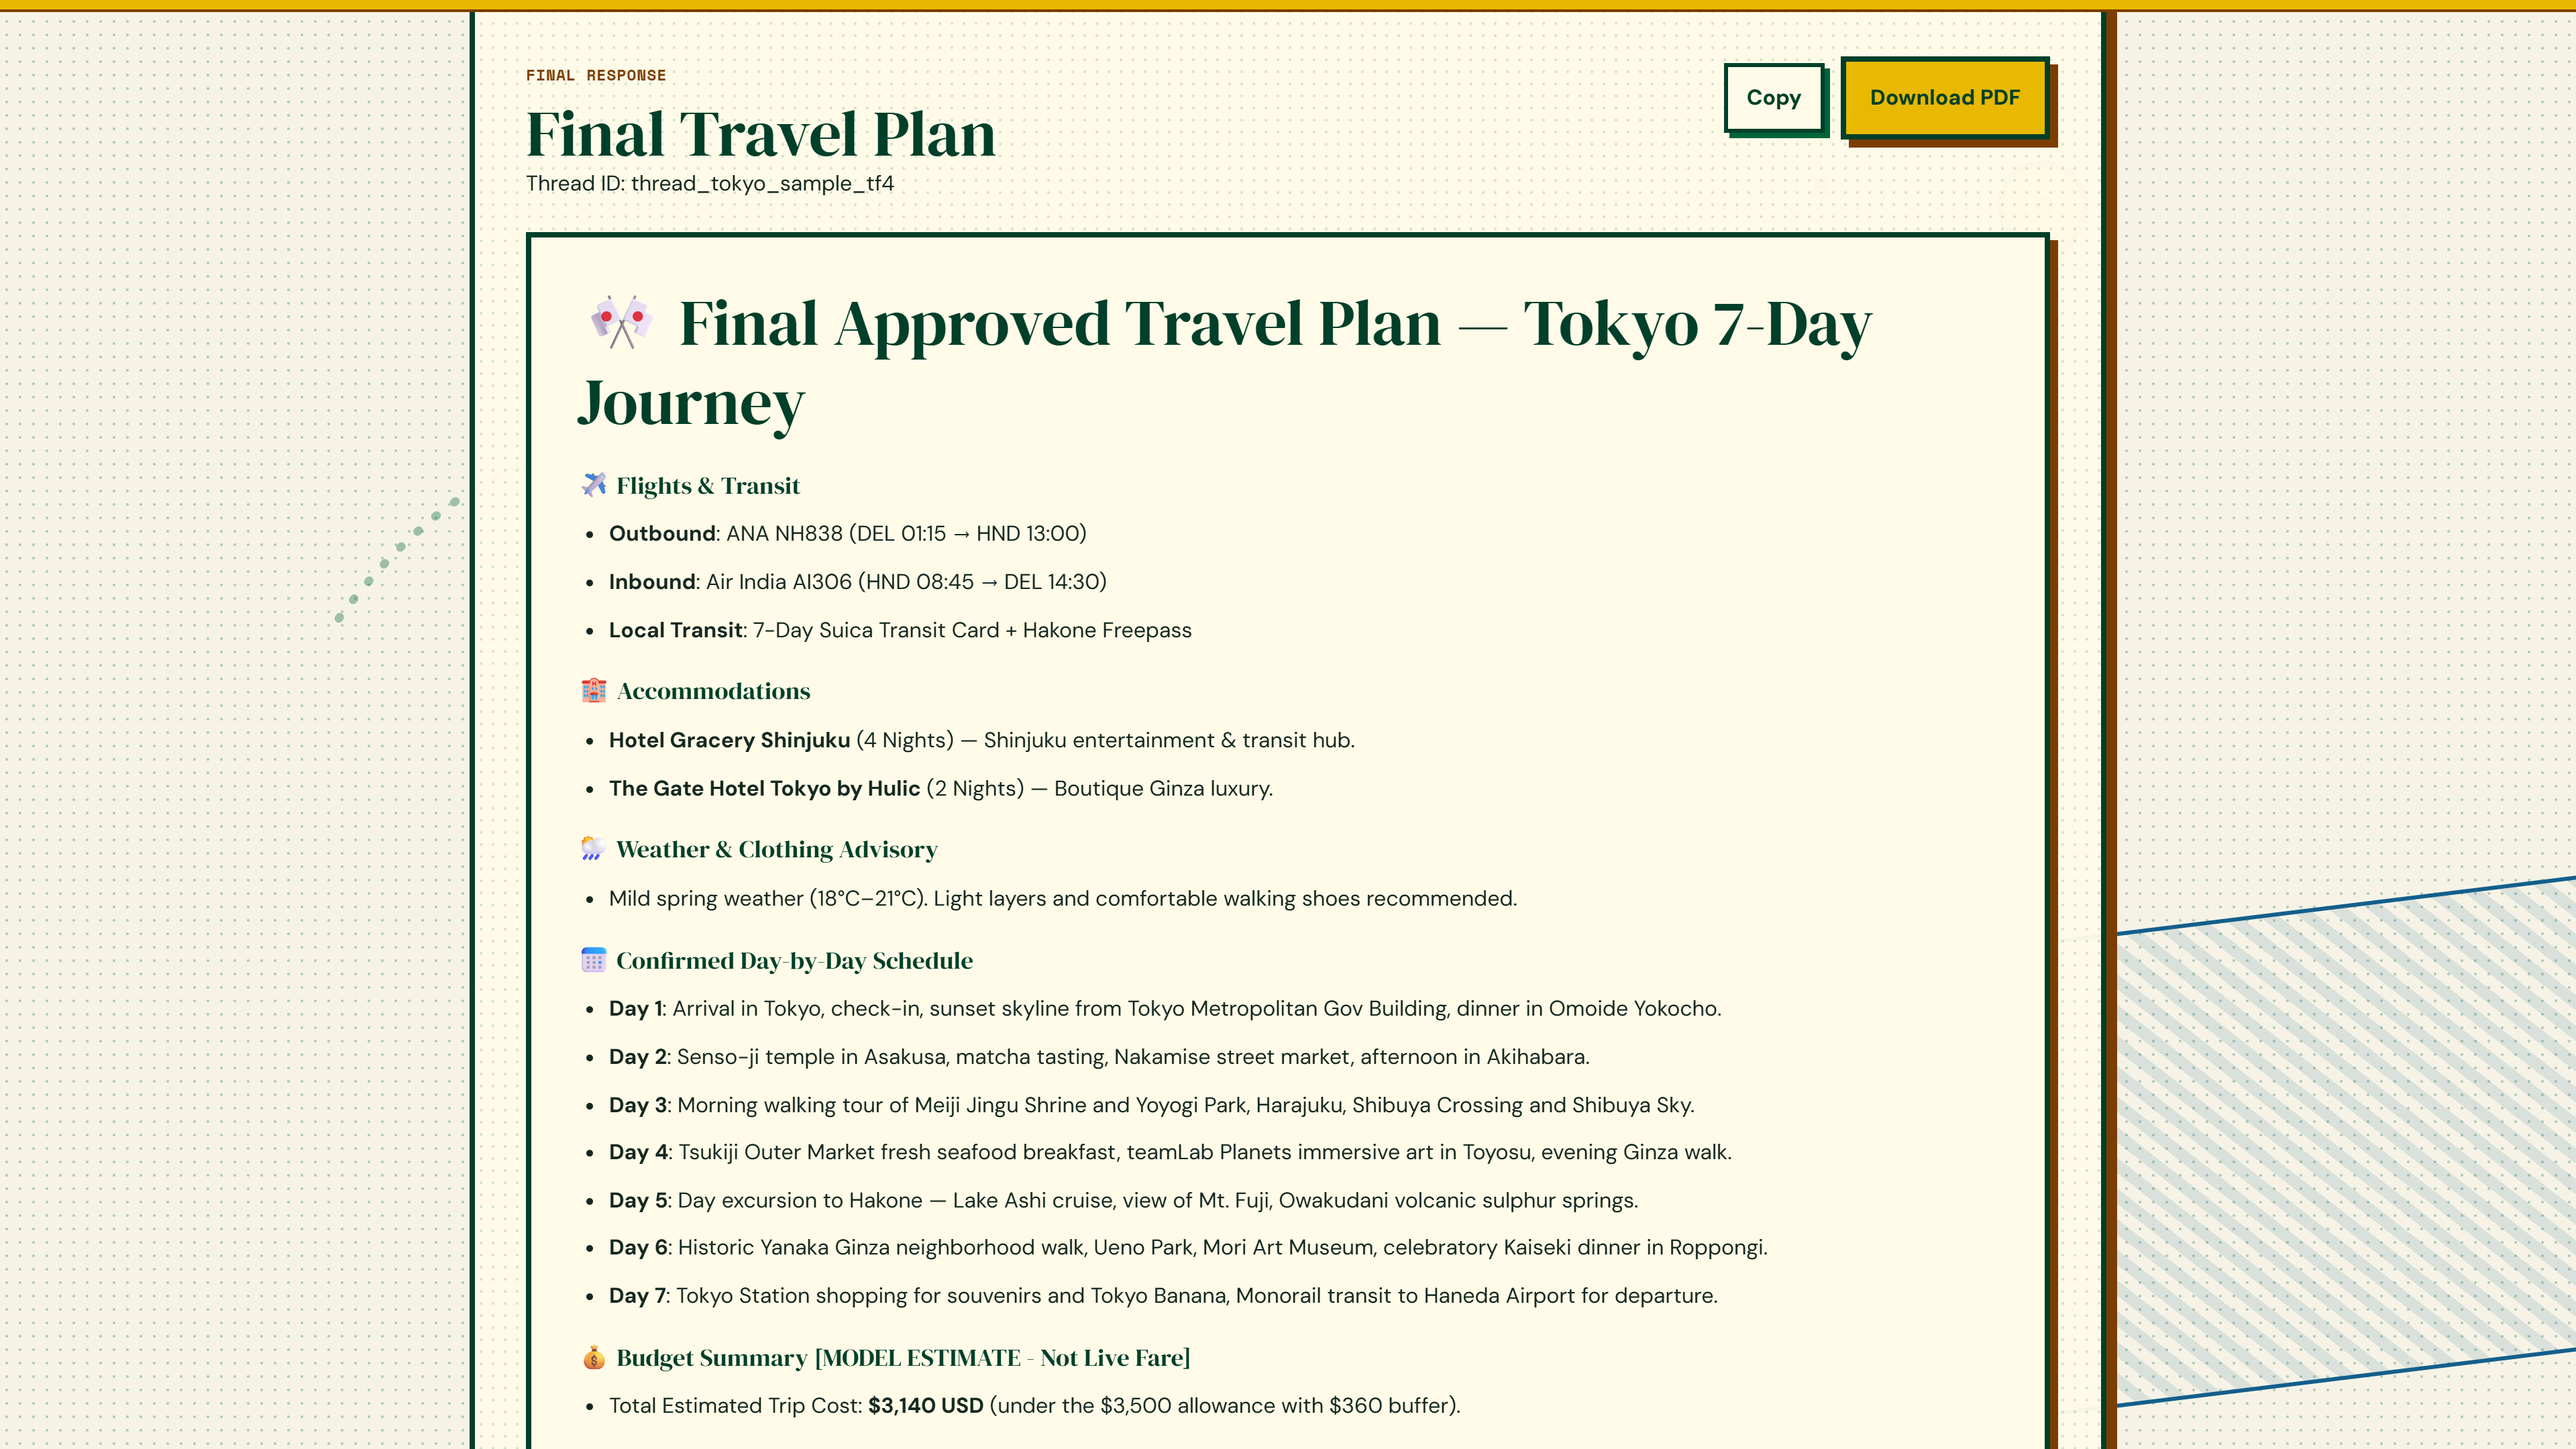
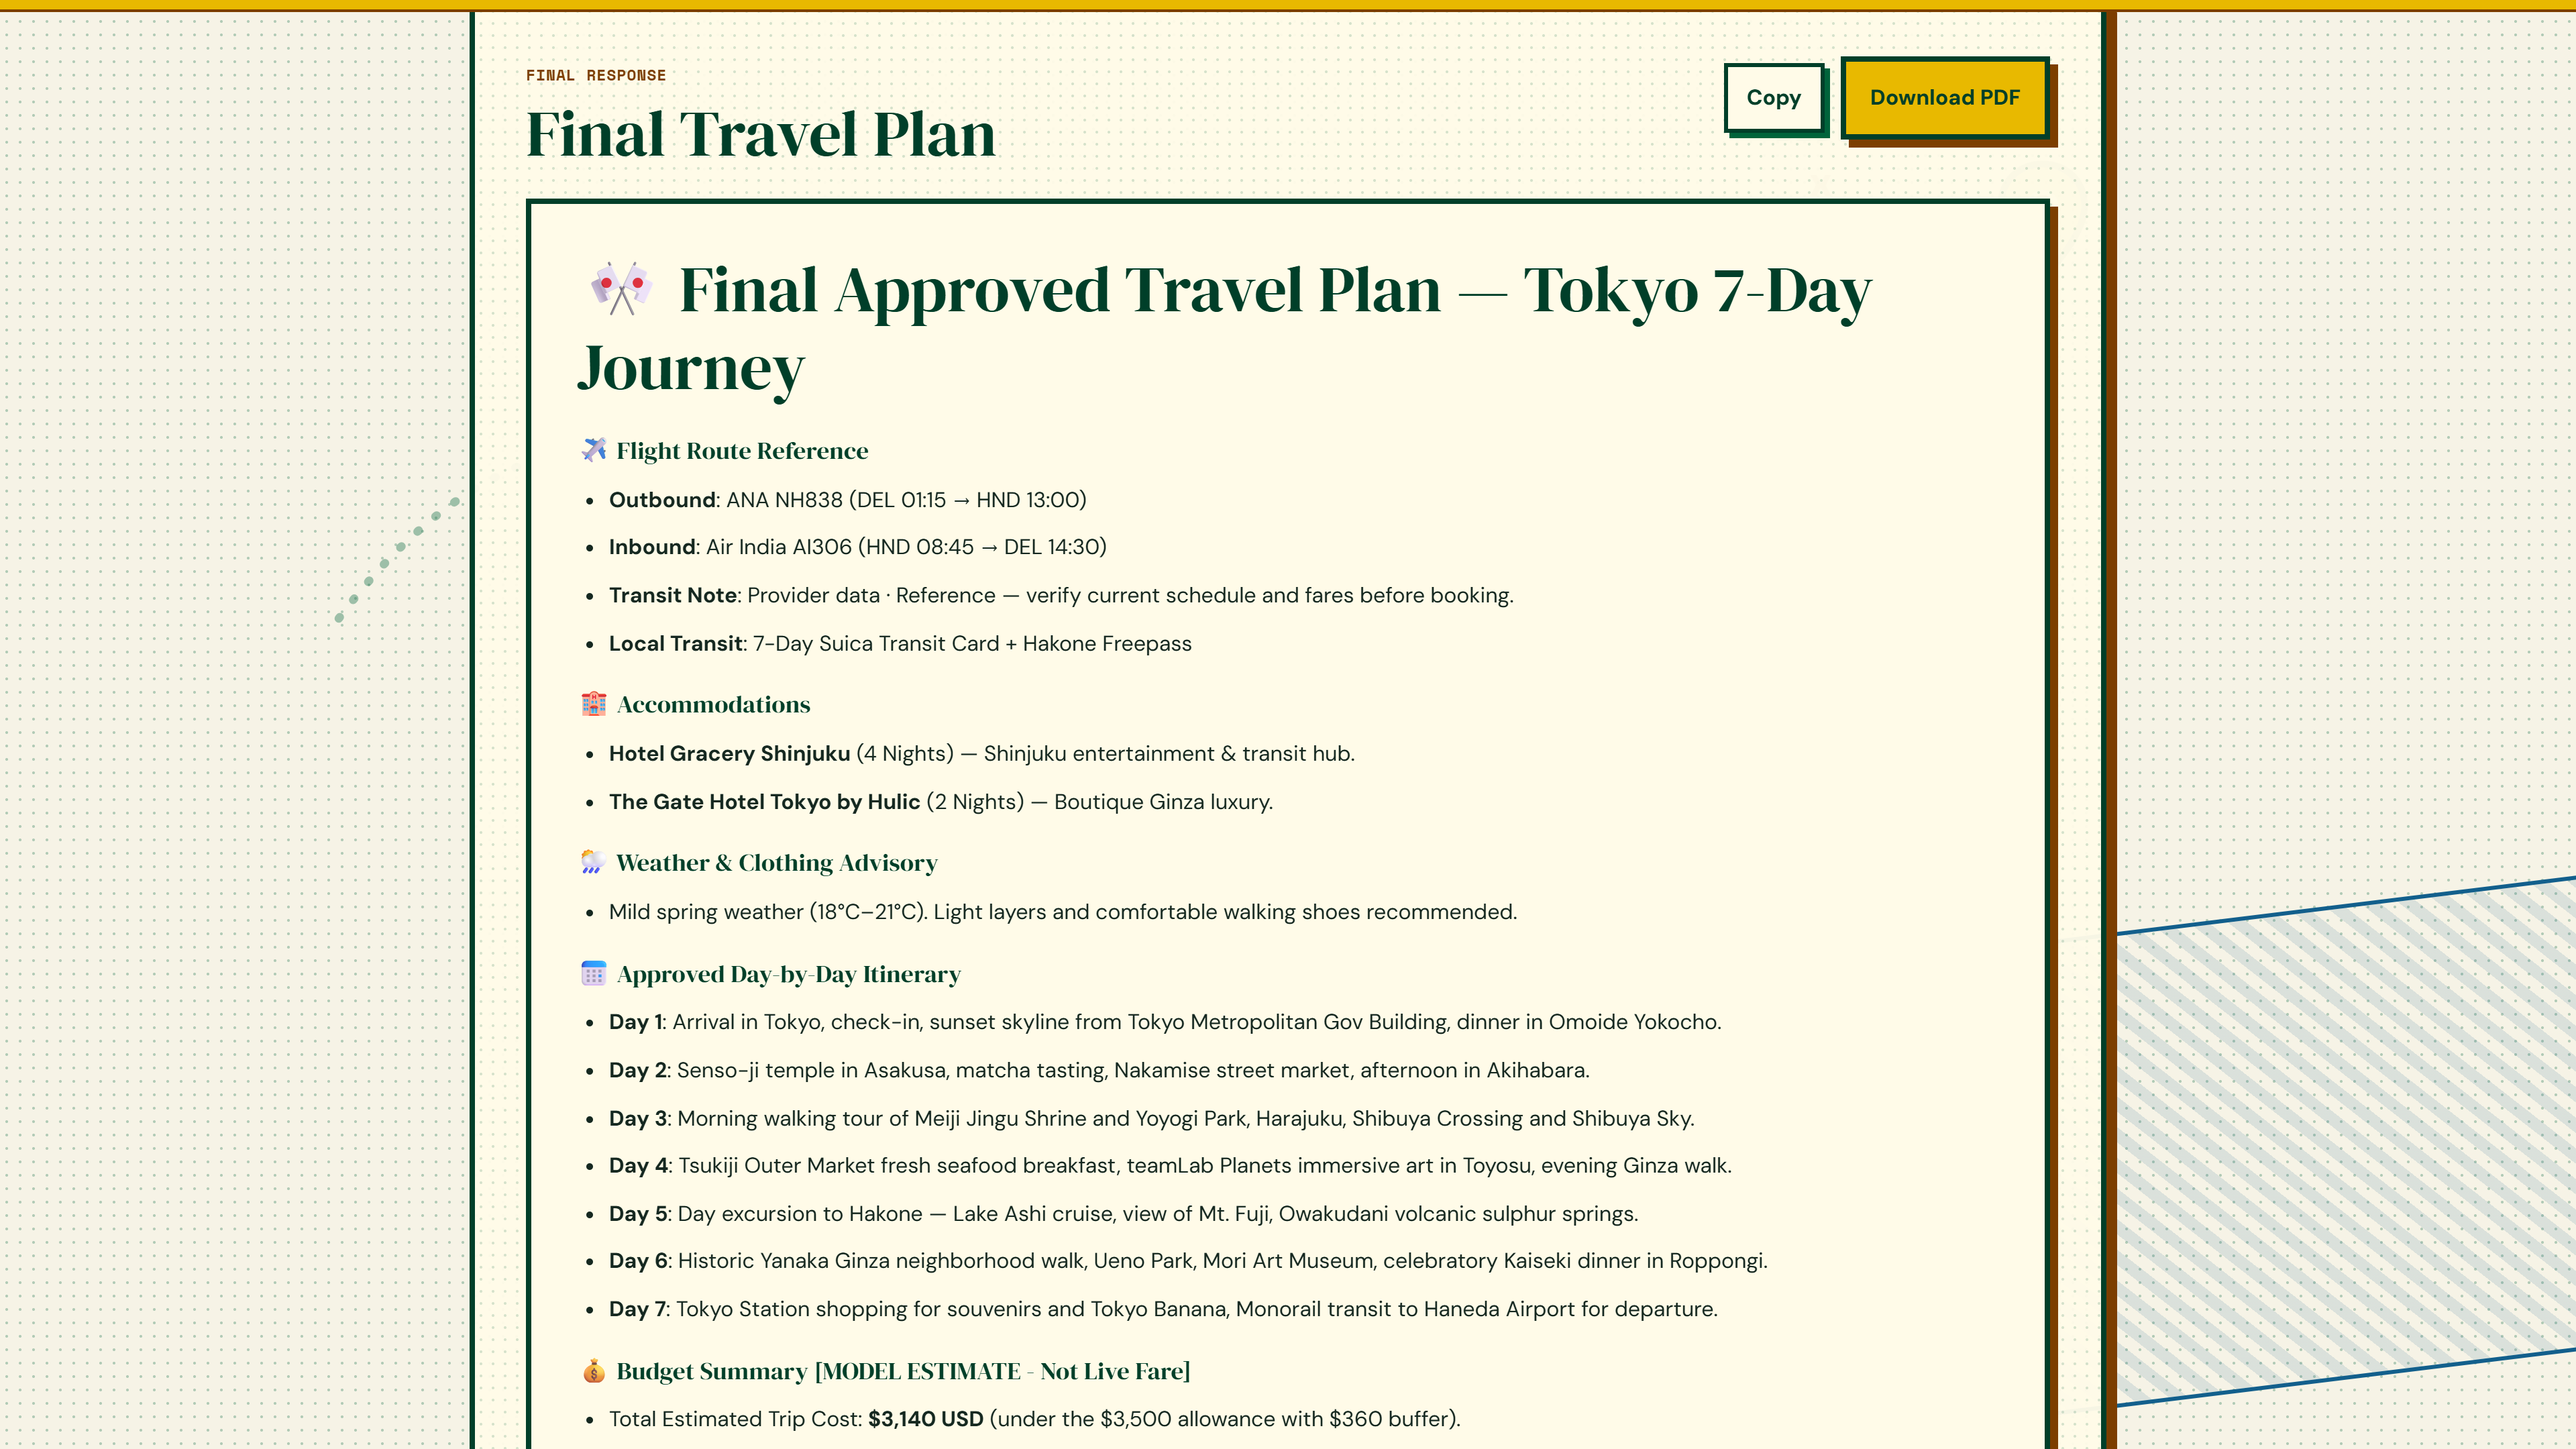
fix: align public travel plan with evidence semantics

Changed region(s): [[0.1875, 0.1241, 0.8125, 0.9926]]

diff --git a/templates/index.html b/templates/index.html
@@ -141,7 +141,7 @@
                 <div>
                     <span class="section-code">FINAL RESPONSE</span>
                     <h2 id="finalTitle">Final Travel Plan</h2>
-                    <p id="threadInfo">Thread ID: -</p>
+                    <p id="threadInfo" class="hidden">Thread ID: -</p>
                 </div>
                 <div class="result-actions">
                     <button type="button" class="copy-btn" id="copyBtn">Copy</button>

diff --git a/backend.py b/backend.py
@@ -838,9 +838,10 @@ async def final_agent(state: TravelState):
         f"Budget Analysis:\n{state.get('budget_results', '')}\n\n"
         f"Draft Itinerary:\n{state.get('itinerary', '')}\n\n"
         "CRITICAL GROUNDEDNESS & TRUTHFULNESS RULES:\n"
+        "- When presenting flight options, describe them as 'Flight Route Reference' (Provider data · Reference — verify current schedule before booking). Never describe route reference data as confirmed flights or live bookings.\n"
+        "- When presenting the approved itinerary, label the section 'Approved Day-by-Day Itinerary' or 'Day-by-Day Itinerary' — NEVER 'Confirmed Schedule' or 'Confirmed Itinerary' since reservations are not made.\n"
         "- If flight data is unavailable or degraded, state: 'Live flight information was unavailable for this run. Verify schedules and fares with an airline or booking provider before booking.'\n"
-        "- If flight data was unavailable, state clearly that live flights must be verified before booking. Never invent fares.\n"
-        "- All estimated price ranges must be clearly designated as estimates.\n"
+        "- All estimated price ranges must be explicitly marked '[MODEL ESTIMATE - Not Live Fare]'.\n"
         "- Format the final answer beautifully with markdown sections suited to the query.\n"
         "Be clear, realistic, and practical."
     )
@@ -849,7 +850,7 @@ async def final_agent(state: TravelState):
         async with asyncio.timeout(PROVIDER_TIMEOUT_SECONDS["llm"]):
             response = await llm.ainvoke(
                 [
-                    SystemMessage(content="You are a professional AI travel booking assistant."),
+                    SystemMessage(content="You are a professional AI travel research assistant."),
                     HumanMessage(content=final_prompt),
                 ]
             )

diff --git a/README.md b/README.md
@@ -20,7 +20,7 @@ TripBandhu delivers a cohesive, retro-editorial human-in-the-loop travel plannin
 | ![Agent Panel and Supervisor Decision](docs/assets/portfolio/agent-supervisor.png) | ![Human Review Gate with Draft Itinerary](docs/assets/portfolio/human-review.png) |
 | *Supervisor validates constraints and activates relevant specialists.* | *Graph pauses via LangGraph `interrupt()` for traveler approval.* |
 
-| **3. Grounded Specialist Intelligence** | **4. Confirmed Final Travel Plan** |
+| **3. Grounded Specialist Intelligence** | **4. Final Travel Plan** |
 | :---: | :---: |
 | ![Specialist Intelligence Tabs](docs/assets/portfolio/evidence-specialists.png) | ![Final Travel Plan Response](docs/assets/portfolio/final-plan.png) |
 | *Live AviationStack, Tavily, and OpenWeather typed evidence tabs.* | *Traveler-approved synthesis with exportable markdown & PDF options.* |
@@ -151,7 +151,7 @@ TripBandhu prioritizes traveler agency through a structured review protocol:
 1. **Autonomous Drafting**: Specialist agents assemble flight schedules, accommodations, weather outlooks, and budget bounds. The Itinerary Specialist compiles draft schedule `v0`.
 2. **State Suspension**: The LangGraph engine hits the `human_review` node and triggers `interrupt()`, safely returning the intermediate state to the client.
 3. **Traveler Decision**:
-   - **Approve**: Traveler accepts the itinerary. Client posts `approved=True`. Graph transitions to `final_synthesis` and produces the confirmed travel plan.
+   - **Approve**: Traveler accepts the itinerary. Client posts `approved=True`. Graph transitions to `final_synthesis` and produces the traveler-approved travel plan.
    - **Request Revision**: Traveler provides textual feedback (e.g., *"Shift Hakone trip to Day 3 and find boutique hotels in Ginza"*). Client posts `approved=False` with feedback. Graph routes back to the supervisor to re-engage necessary specialists for draft `v1`.
 4. **Defensive Cap**: A strict `MAX_REVIEW_ITERATIONS` limit (default 10) prevents infinite looping. If the cap is reached without approval, the graph safely terminates with a `REVIEW_LIMIT_REACHED` notice, preserving all checkpoint history without ever auto-finalizing an unapproved plan.
 
